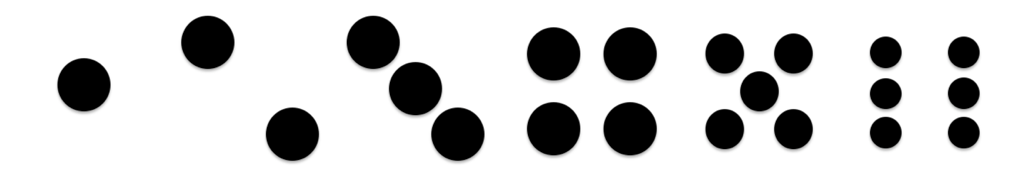
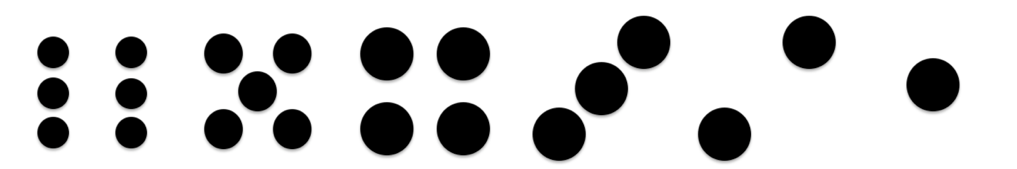
scores only update when dice finish spin

Changed region(s): [[0.0305, 0.0888, 0.4877, 0.9763], [0.5182, 0.0888, 0.823, 0.9763], [0.8535, 0.2071, 0.9754, 0.8876]]

diff --git a/script.js b/script.js
@@ -25,6 +25,10 @@ let largeStraightLock = false
 let yahtzeeLock = false
 let chanceLock = false
 
+// let finalNumber = 1
+// let rolling = false
+// let currentImage = 1
+
 /*------------------------ Cached Element References ------------------------*/
 const dice = document.querySelectorAll('.dice')
 const roll = document.querySelector('#roll')
@@ -99,6 +103,7 @@ function resetGame() {
     roll.innerText = `${3-rolls} rolls left`
     yahtzeeBonusEarned = false
     lockedCombos = 0
+    reset.classList.remove('pulse')
 
     onesLock = false
     twosLock = false
@@ -142,11 +147,13 @@ function rollDice() {
     spinUnlockedDice()
     updateDisplay()
     updateValueFreq()
-    displayOptions()
+    setTimeout(() => {
+        displayOptions()
+
+    }, 1000);
 
 }
 
-//function to animate dice rolling?
 
 //update dice appearance based on array of number values
 function updateDisplay() {
@@ -158,7 +165,7 @@ function updateDisplay() {
         } else {
         die.style.backgroundImage = "url(6dice.png)";
         die.style.backgroundSize = "300px"
-        offset = (7 - diceValues[index]) % 6 * 51
+        offset = diceValues[index] * 50
         die.style.backgroundPosition = offset + "px"
         }
         
@@ -169,6 +176,9 @@ function updateDisplay() {
         }
     })
 }
+
+
+
 
 function updateValueFreq() {
     valueFreq = [0,0,0,0,0,0]
@@ -239,22 +249,22 @@ function lockDie(die) {
 function spinUnlockedDice() {
     dice.forEach((die) => {
         if (!die.classList.contains('dieLocked')) {
-            die.classList.add('spin-animation');
-            //stop animation 
+            //start number cycling
+            die.classList.add('rolling');
+            //start spin
+            // die.classList.add('spin-animation');
+            //stop number cycling
             setTimeout(() => {
-                die.classList.remove('spin-animation');
+                die.classList.remove('rolling');
             }, 1000);
+            //stop spin 
+            // setTimeout(() => {
+            //     die.classList.remove('spin-animation');
+            // }, 1000);
         }
     })
 }
-// function spin(die) {
-//     //add spinning animation
-//     die.classList.add('spin-animation');
-//     //stop animation 
-//     setTimeout(() => {
-//         die.classList.remove('spin-animation');
-//     }, 1000);
-// }
+
 
 // select single combo and update score
 function lockScore(combo) {

diff --git a/style.css b/style.css
@@ -58,6 +58,7 @@ body {
     display: flex;
     justify-content: center; 
     align-items: center; 
+    
 
 }
 
@@ -168,3 +169,18 @@ animation: 3s linear infinite blink;
 .spin-animation {
     animation:  1s ease-in-out spin; /* Adjust duration and timing function as needed */
 }
+
+/*--- makes an element cycle through dice numbers, from Chat GPT --- */
+
+@keyframes spriteAnimation {
+  0% { background-position: 0px 0px; }
+  100% { background-position: -300px 0px; }
+}
+
+.rolling {
+    width: 51px;
+    height: 51px;
+    background-image: url('https://i.imgur.com/QKttHBC.jpg');
+    animation: spriteAnimation 0.5s steps(6) infinite;
+  }
+  
